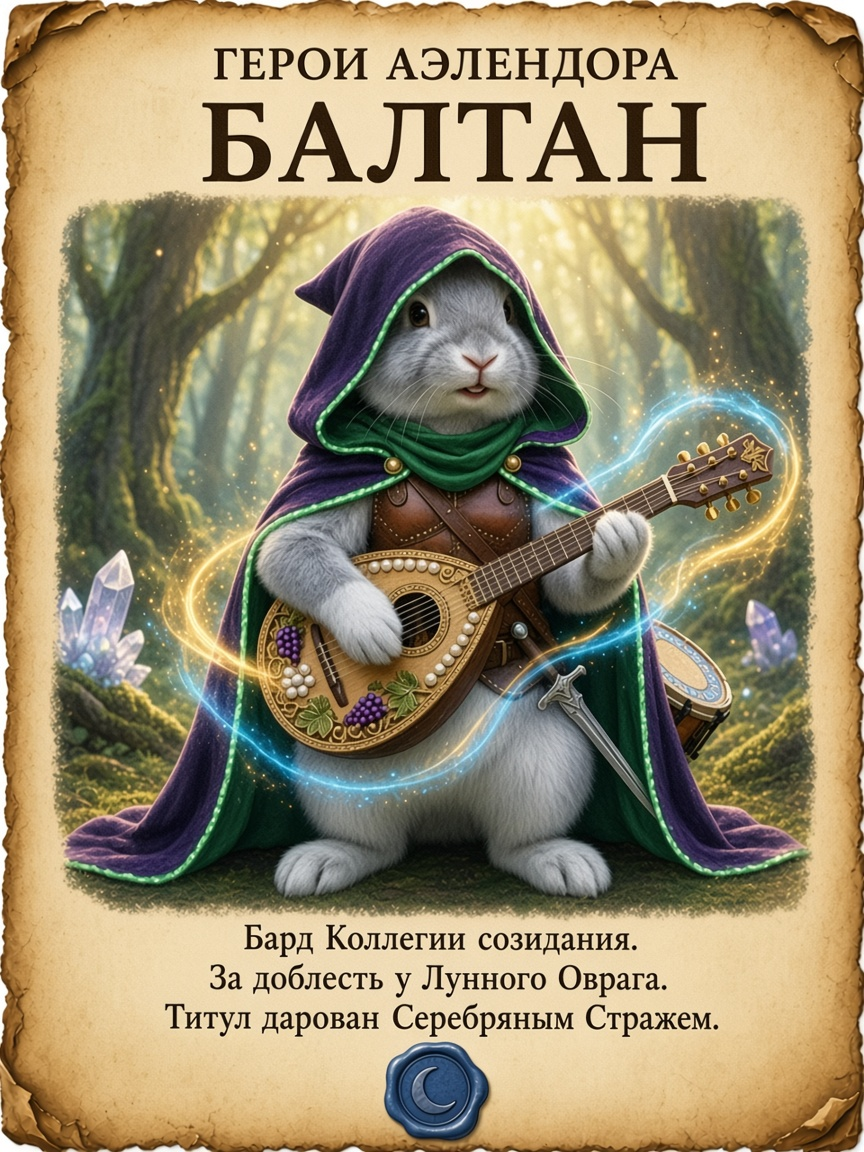
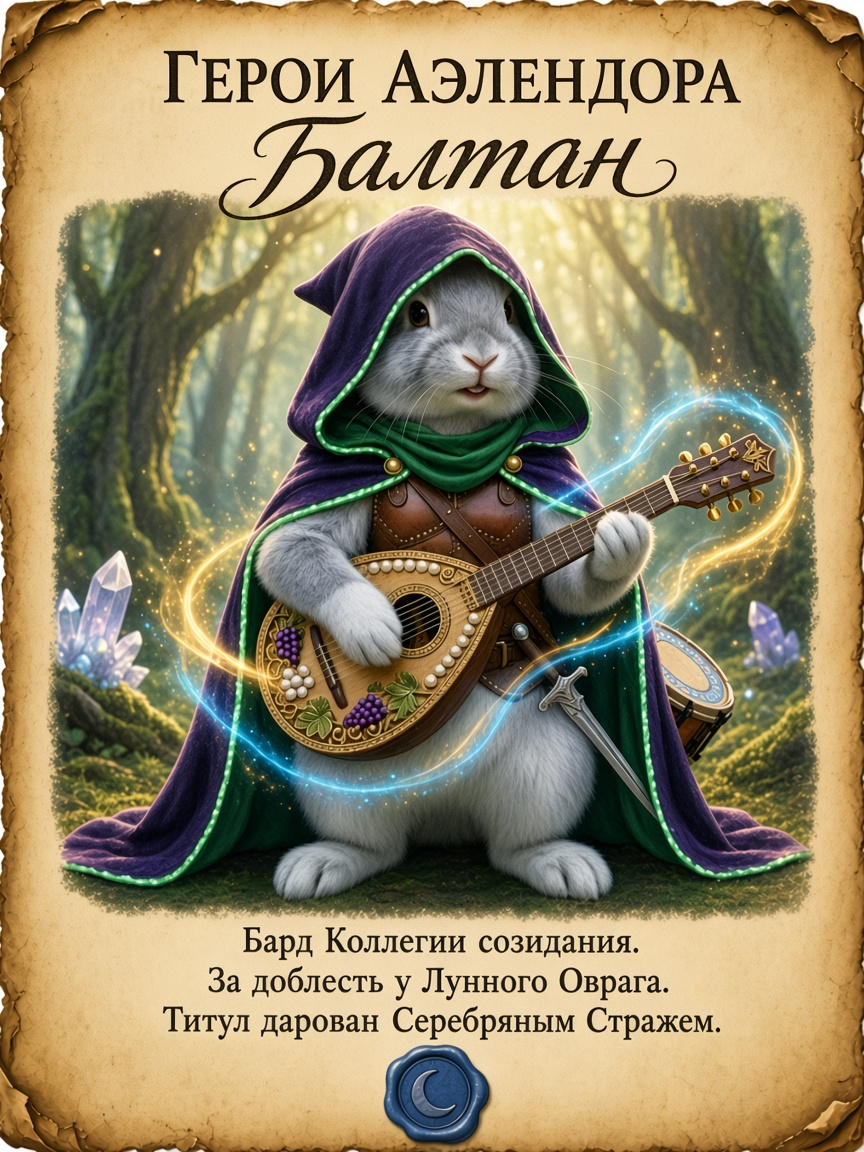
Unify parchment poster typography to match Virra.
Hero names use calligraphy Title Case; headers stay serif ALL CAPS;
footers use clean serif. Kardian wanted poster follows the same hierarchy.

diff --git a/assets/prompts/parchment-posters.md b/assets/prompts/parchment-posters.md
@@ -16,11 +16,13 @@ source: gm
 
 - Носитель: **состаренный пергамент** (рваные/подпалённые края, пятна, трещины).
 - Текст: **только русский**.
-- Вёрстка текста (единый шаблон героев):
-  1. Сверху: `ГЕРОИ АЭЛЕНДОРА` → **ИМЯ**
-  2. Портрет (без текста поверх)
-  3. Снизу три строки: класс/роль · «За доблесть у Лунного Оврага.» · «Титул дарован Серебряным Стражем.»
-  4. Синий сургуч с полумесяцем
+- Вёрстка текста (единый шаблон героев; **эталон шрифтов — Вирра**):
+  1. Сверху: `ГЕРОИ АЭЛЕНДОРА` — классический **serif ALL CAPS**
+  2. Имя героя — **каллиграфия / script, Title Case** (как «Вирра», не CAPS-блок)
+  3. Портрет (без текста поверх)
+  4. Снизу три строки чистым **serif** (sentence case): класс/роль · «За доблесть у Лунного Оврага.» · «Титул дарован Серебряным Стражем.»
+  5. Синий сургуч с полумесяцем
+- Розыск (Кардиан): та же иерархия — serif-заголовок `РОЗЫСК` → каллиграфия имени → serif внизу; красный сургуч.
 - Герои партии: внешность **строго** из [`../images/portraits/`](../images/portraits/).
 - Кардиан: лицо из артов снов.
 
@@ -36,7 +38,7 @@ source: gm
 
 Текст:
 
-- ГЕРОИ АЭЛЕНДОРА / ГРОК
+- ГЕРОИ АЭЛЕНДОРА / Грок
 - Паладин Смотрителей.
 - За доблесть у Лунного Оврага.
 - Титул дарован Серебряным Стражем.
@@ -57,7 +59,7 @@ source: gm
 
 Текст:
 
-- ГЕРОИ АЭЛЕНДОРА / БАЛТАН
+- ГЕРОИ АЭЛЕНДОРА / Балтан
 - Бард Коллегии созидания.
 - За доблесть у Лунного Оврага.
 - Титул дарован Серебряным Стражем.
@@ -71,7 +73,7 @@ source: gm
 
 Текст:
 
-- ГЕРОИ АЭЛЕНДОРА / ДРАННИК
+- ГЕРОИ АЭЛЕНДОРА / Дранник
 - Друид Круга мутации.
 - За доблесть у Лунного Оврага.
 - Титул дарован Серебряным Стражем.
@@ -85,7 +87,7 @@ source: gm
 
 Текст:
 
-- ГЕРОИ АЭЛЕНДОРА / КАВИЛ
+- ГЕРОИ АЭЛЕНДОРА / Кавил
 - Друид Круга дикого огня.
 - За доблесть у Лунного Оврага.
 - Титул дарован Серебряным Стражем.

diff --git a/assets/images/parchment-posters/README.md b/assets/images/parchment-posters/README.md
@@ -20,3 +20,5 @@ tags: [visual, merch, parchment]
 | `05-heroes-kavil.png` | Кавил | герои Аэлендора |
 
 Нумерация — порядок серии. Новые афиши добавлять сюда же: `06-…`, `07-…`.
+
+**Шрифты (эталон — `02-heroes-virra.png`):** заголовок serif CAPS → имя каллиграфией Title Case → низ чистый serif.
